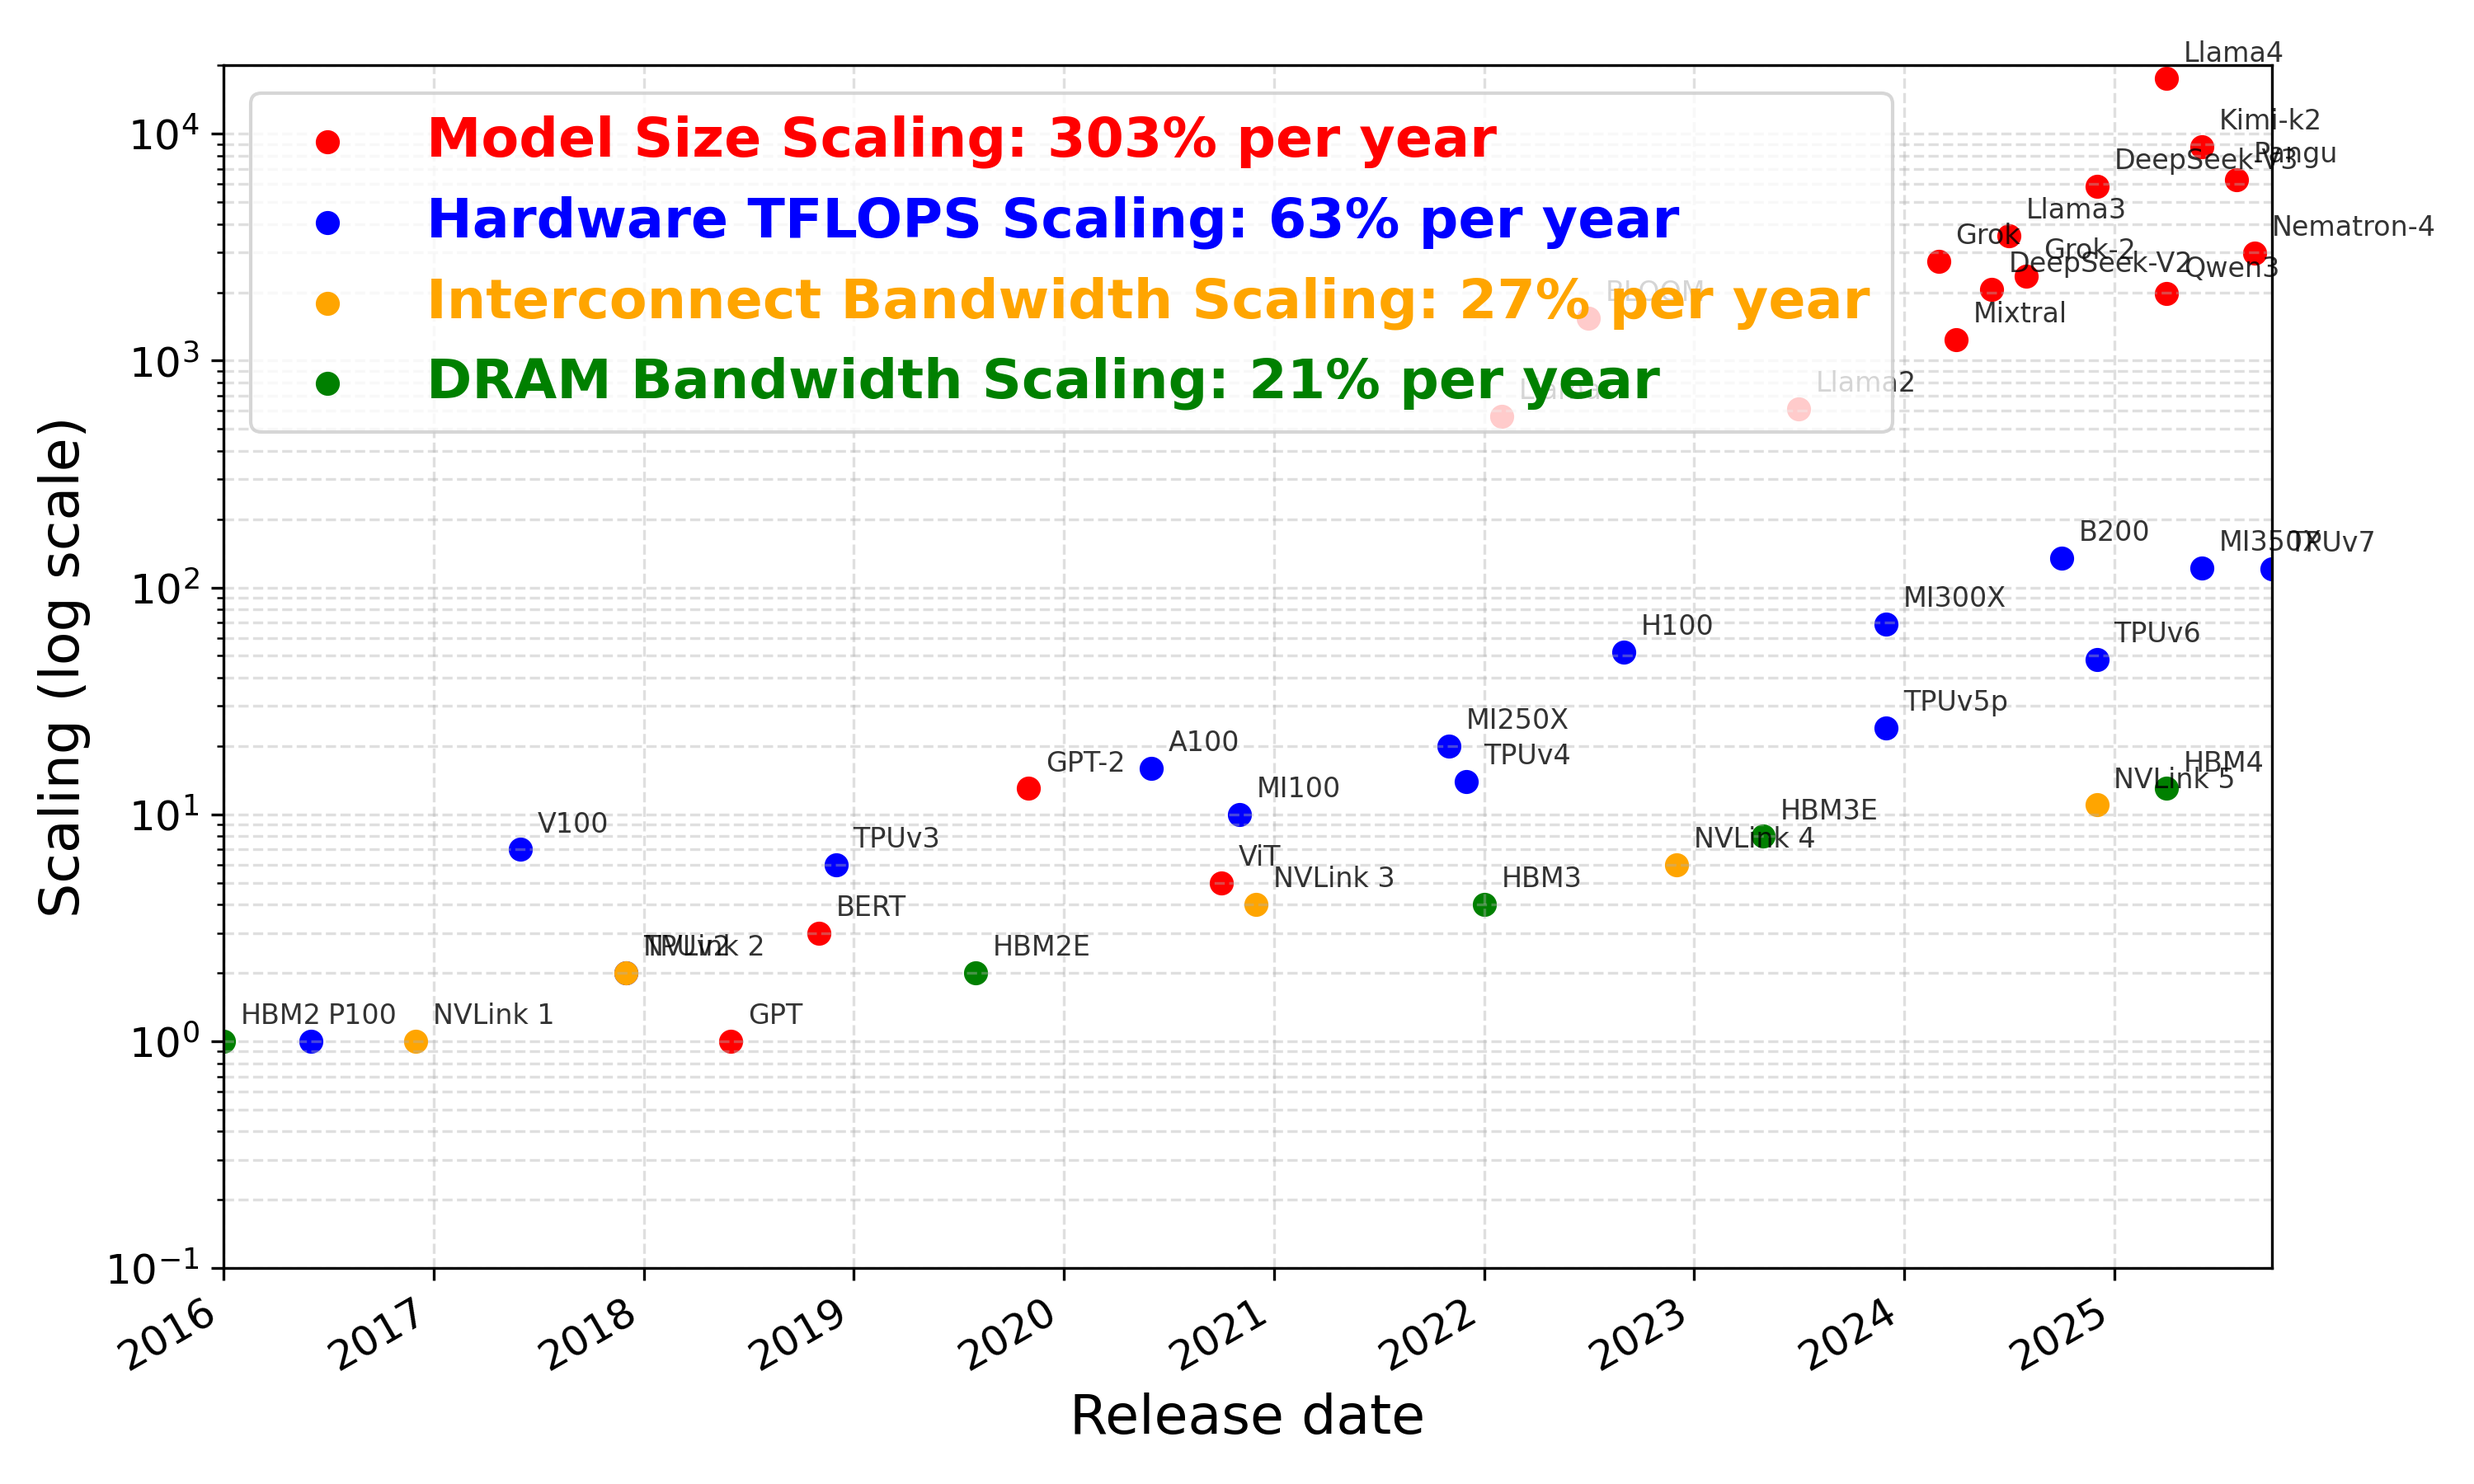
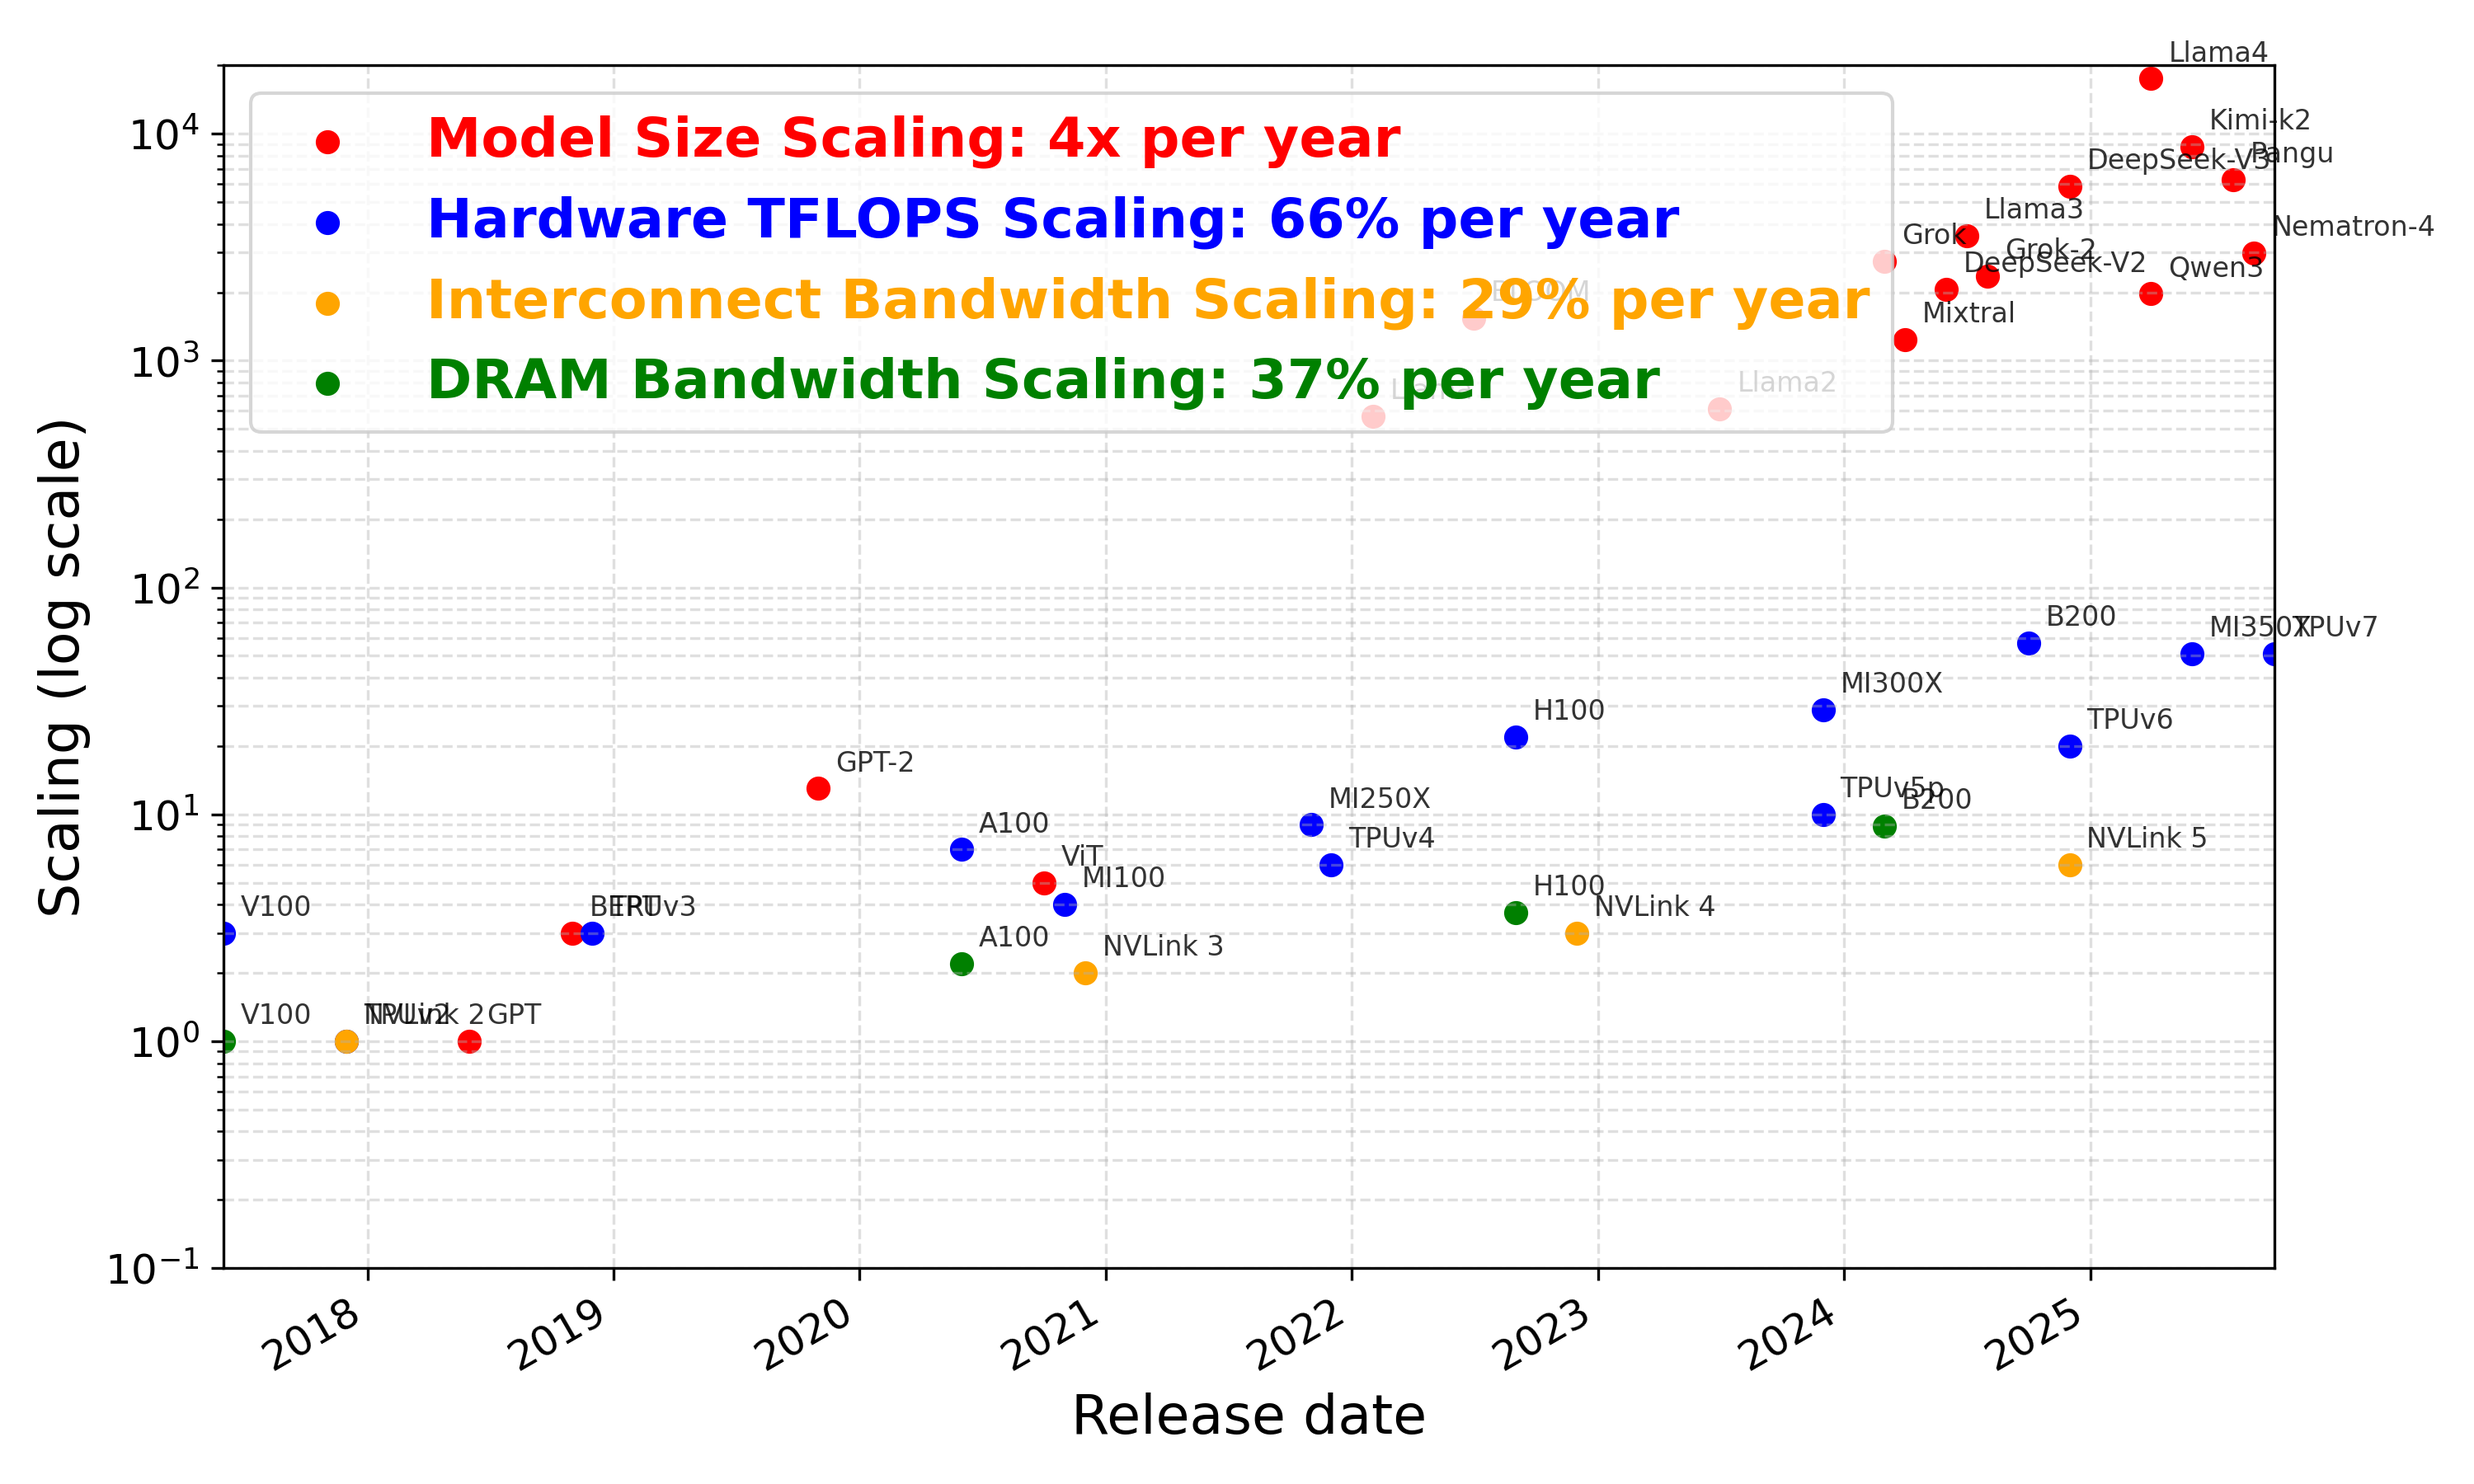
update Nov. 20

diff --git a/LLM_size_vs_hardware.py b/LLM_size_vs_hardware.py
@@ -33,56 +33,50 @@ model_rows = [
 ]
 
 hardware_rows = [
-    ("P100", "Jun-16", 1),
-    ("V100", "Jun-17", 7),
-    ("TPUv2", "Dec-17", 2),
-    ("TPUv3", "Dec-18", 6),
-    ("A100", "Jun-20", 16),
-    ("MI100", "Nov-20", 10),
-    ("MI250X", "Nov-21", 20),
-    ("TPUv4", "Dec-21", 14),
-    ("H100", "Sep-22", 52),
-    ("MI300X", "Dec-23", 69),
-    ("TPUv5p", "Dec-23", 24),
-    ("B200", "Oct-24", 135),
-    ("TPUv6", "Dec-24", 48),
-    ("MI350X", "Jun-25", 122),
-    ("TPUv7", "Oct-25", 121),
+    ("V100", "Jun-17", 3),
+    ("TPUv2", "Dec-17", 1),
+    ("TPUv3", "Dec-18", 3),
+    ("A100", "Jun-20", 7),
+    ("MI100", "Nov-20", 4),
+    ("MI250X", "Nov-21", 9),
+    ("TPUv4", "Dec-21", 6),
+    ("H100", "Sep-22", 22),
+    ("MI300X", "Dec-23", 29),
+    ("TPUv5p", "Dec-23", 10),
+    ("B200", "Oct-24", 57),
+    ("TPUv6", "Dec-24", 20),
+    ("MI350X", "Jun-25", 51),
+    ("TPUv7", "Oct-25", 51),
 ]
 
 dram_bandwidth_rows = [
-    # ("HBM", "Oct-13", 1),
-    ("HBM2", "Jan-16", 1),
-    ("HBM2E", "Aug-19", 2),
-    ("HBM3", "Jan-22", 4),
-    ("HBM3E", "May-23", 8),
-    ("HBM4", "Apr-25", 13),
+    ("V100", "Jun-17", 1),
+    ("A100", "Jun-20", 2.2),
+    ("H100", "Sep-22", 3.7),
+    ("B200", "Mar-24", 8.9),
 ]
 
 dram_capacity_rows = [
-    # ("HBM", "Oct-13", 1),
-    ("HBM2", "Jan-16", 1),
-    ("HBM2E", "Aug-19", 3),
-    ("HBM3", "Jan-22", 5),
-    ("HBM3E", "May-23", 9),
-    ("HBM4", "Apr-25", 16),
+    ("V100", "Jun-17", 1),
+    ("A100", "Jun-20", 2.5),
+    ("H100", "Sep-22", 2.5),
+    ("B200", "Mar-24", 6),
 ]
 
 interconnect_rows = [
-    ("NVLink 1", "Dec-16", 1),
-    ("NVLink 2", "Dec-17", 2),
-    ("NVLink 3", "Dec-20", 4),
-    ("NVLink 4", "Dec-22", 6),
-    ("NVLink 5", "Dec-24", 11),
+    ("NVLink 2", "Dec-17", 1),
+    ("NVLink 3", "Dec-20", 2),
+    ("NVLink 4", "Dec-22", 3),
+    ("NVLink 5", "Dec-24", 6),
 ]
 
 df = pd.concat(
     [
-        make_df(model_rows, "Model Size Scaling: 303% per year"),
-        make_df(hardware_rows, "Hardware TFLOPS Scaling: 63% per year"),
-        make_df(interconnect_rows, "Interconnect Bandwidth Scaling: 27% per year"),
-        make_df(dram_bandwidth_rows, "DRAM Bandwidth Scaling: 21% per year"),
-        make_df(dram_capacity_rows, "DRAM Capacity Scaling: 23% per year"),
+        make_df(model_rows, "Model Size Scaling: 4x per year"),
+        make_df(hardware_rows, "Hardware TFLOPS Scaling: 66% per year"),
+        make_df(interconnect_rows, "Interconnect Bandwidth Scaling: 29% per year"),
+        make_df(dram_bandwidth_rows, "DRAM Bandwidth Scaling: 37% per year"),
+        make_df(dram_capacity_rows, "DRAM Capacity Scaling: 29% per year"),
     ],
     ignore_index=True,
 )
@@ -90,7 +84,7 @@ df = pd.concat(
 # Create five separate figures
 # Define colors for each group
 colors = ['red', 'blue', 'orange', 'green', 'purple']
-group_names = ["Model Size Scaling: 303% per year", "Hardware TFLOPS Scaling: 63% per year", "Interconnect Bandwidth Scaling: 27% per year", "DRAM Bandwidth Scaling: 21% per year", "DRAM Capacity Scaling: 23% per year"]
+group_names = ["Model Size Scaling: 4x per year", "Hardware TFLOPS Scaling: 66% per year", "Interconnect Bandwidth Scaling: 29% per year", "DRAM Bandwidth Scaling: 37% per year", "DRAM Capacity Scaling: 29% per year"]
 
 # Calculate overall date range for consistent x-axis across all figures
 overall_min_date = df["date"].min()
@@ -147,21 +141,21 @@ def create_plot(groups_to_include, title_suffix, figure_num):
     plt.savefig(f"LLM_size_vs_hardware_figure_{figure_num}.png", dpi=300)
 
 # Figure 1: Only model scaling
-create_plot(["Model Size Scaling: 303% per year"], "Model Scaling Only", 1)
+create_plot(["Model Size Scaling: 4x per year"], "Model Scaling Only", 1)
 
 # Figure 2: Model and Hardware TFLOPS scalings
-create_plot(["Model Size Scaling: 303% per year", "Hardware TFLOPS Scaling: 63% per year"], "Model and Hardware TFLOPS Scaling", 2)
+create_plot(["Model Size Scaling: 4x per year", "Hardware TFLOPS Scaling: 66% per year"], "Model and Hardware TFLOPS Scaling", 2)
 
 # Figure 3: Model, Hardware TFLOPS and Interconnect BW Scaling
-create_plot(["Model Size Scaling: 303% per year", "Hardware TFLOPS Scaling: 63% per year", "Interconnect Bandwidth Scaling: 27% per year"], "Model, Hardware TFLOPS and Interconnect BW Scaling", 3)
+create_plot(["Model Size Scaling: 4x per year", "Hardware TFLOPS Scaling: 66% per year", "Interconnect Bandwidth Scaling: 29% per year"], "Model, Hardware TFLOPS and Interconnect BW Scaling", 3)
 
 # Figure 4: Add DRAM Bandwidth Scaling
-create_plot(["Model Size Scaling: 303% per year", "Hardware TFLOPS Scaling: 63% per year", "Interconnect Bandwidth Scaling: 27% per year", "DRAM Bandwidth Scaling: 21% per year"], "All Four Scalings", 4)
+create_plot(["Model Size Scaling: 4x per year", "Hardware TFLOPS Scaling: 66% per year", "Interconnect Bandwidth Scaling: 29% per year", "DRAM Bandwidth Scaling: 37% per year"], "All Four Scalings", 4)
 
 # Figure 5: Model, Hardware TFLOPS, DRAM BW and Capacity (no interconnect)
-create_plot(["Model Size Scaling: 303% per year", "Hardware TFLOPS Scaling: 63% per year", "DRAM Bandwidth Scaling: 21% per year", "DRAM Capacity Scaling: 23% per year"], "Model, Hardware TFLOPS, DRAM BW and Capacity", 5)
+create_plot(["Model Size Scaling: 4x per year", "Hardware TFLOPS Scaling: 66% per year", "DRAM Bandwidth Scaling: 37% per year", "DRAM Capacity Scaling: 29% per year"], "Model, Hardware TFLOPS, DRAM BW and Capacity", 5)
 
 
 # Figure 2: Model, Hardware TFLOPS scalings and DRAM BW
-create_plot(["Model Size Scaling: 303% per year", "Hardware TFLOPS Scaling: 63% per year", "DRAM Bandwidth Scaling: 21% per year"], "Model, Hardware TFLOPS Scaling and DRAM BW", 6)
+create_plot(["Model Size Scaling: 4x per year", "Hardware TFLOPS Scaling: 66% per year", "DRAM Bandwidth Scaling: 37% per year"], "Model, Hardware TFLOPS Scaling and DRAM BW", 6)
 

diff --git a/Power_figure.py b/Power_figure.py
@@ -82,19 +82,20 @@ X_MARGIN = 0.5
 
 
 def _apply_axis_formatting() -> None:
-	plt.xlabel("Year")
-	plt.ylabel("Energy Consumption (TWh)")
+	plt.xlabel("Year", fontsize=24)
+	plt.ylabel("Energy Consumption", fontsize=24)
 	plt.xlim(X_LIMITS[0] - X_MARGIN, X_LIMITS[1] + X_MARGIN)
 	plt.ylim(0, Y_MAX)
 	plt.grid(alpha=0.3)
-	plt.xticks(fontsize=18)
-	plt.yticks(fontsize=18)
-	plt.legend(loc="upper left", fontsize=18)
+	plt.xticks(fontsize=20)
+	ax = plt.gca()
+	ax.tick_params(axis="y", which="both", left=False, right=False, labelleft=False)
+	plt.legend(loc="upper left", fontsize=20)
 	plt.tight_layout()
 
 
-def plot_historical_only() -> None:
-	"""Plot only the historical data up to 2024."""
+def plot_Historical_only() -> None:
+	"""Plot only the Historical data up to 2024."""
 
 	plt.figure(figsize=(10, 6))
 	# plt.plot(
@@ -103,7 +104,7 @@ def plot_historical_only() -> None:
 	# 	color="tab:blue",
 	# 	linewidth=2,
 	# 	marker="o",
-	# 	label="2015-2019 (historical)",
+	# 	label="2015-2019 (Historical)",
 	# )
 	plt.plot(
 		YEARS_PRE_2020 + YEARS_2020_2024,
@@ -111,14 +112,14 @@ def plot_historical_only() -> None:
 		color="tab:blue",
 		linewidth=2,
 		marker="o",
-		label="2015-2024 (historical)",
+		label="2015-2024 (Historical)",
 	)
 	_apply_axis_formatting()
-	plt.savefig("power_consumption_historical.png", dpi=300)
+	plt.savefig("power_consumption_Historical.png", dpi=300)
 
 
 def plot_with_projection() -> None:
-	"""Plot the historical data plus projections from 2025 onward."""
+	"""Plot the Historical data plus projections from 2025 onward."""
 
 	plt.figure(figsize=(10, 6))
 	# plt.plot(
@@ -127,7 +128,7 @@ def plot_with_projection() -> None:
 	# 	color="tab:blue",
 	# 	linewidth=2,
 	# 	marker="o",
-	# 	label="2015-2019 (historical)",
+	# 	label="2015-2019 (Historical)",
 	# )
 	plt.plot(
 		YEARS_PRE_2020 + YEARS_2020_2024,
@@ -135,7 +136,7 @@ def plot_with_projection() -> None:
 		color="tab:blue",
 		linewidth=2,
 		marker="o",
-		label="2015-2024 (historical)",
+		label="2015-2024 (Historical)",
 	)
 	plt.plot(
 		YEARS_PROJECTED,
@@ -144,7 +145,7 @@ def plot_with_projection() -> None:
 		linewidth=2,
 		linestyle="--",
 		marker="o",
-		label="2025-2030 (projected)",
+		label="2025-2030 (Projected)",
 	)
 	_apply_axis_formatting()
 	plt.savefig("power_consumption_with_projection.png", dpi=300)
@@ -172,8 +173,15 @@ def plot_country_comparison() -> None:
 		ax.invert_yaxis()
 		ax.grid(axis="x", alpha=0.3, linestyle=":")
 		ax.set_facecolor("white")
-		ax.tick_params(axis="y", labelsize=24)
-		ax.tick_params(axis="x", labelsize=16)
+		ax.tick_params(axis="y", labelsize=28)
+		ax.tick_params(
+			axis="x",
+			labelsize=14,
+			which="both",
+			bottom=False,
+			top=False,
+			labelbottom=False,
+		)
     
 
 	# ax_close.set_xlabel("Energy Consumption (TWh)", fontsize=22)
@@ -199,7 +207,7 @@ def plot_country_comparison() -> None:
 def main() -> None:
 	"""Render both projections per user specification."""
 
-	plot_historical_only()
+	plot_Historical_only()
 	plot_with_projection()
 	plot_country_comparison()
 
